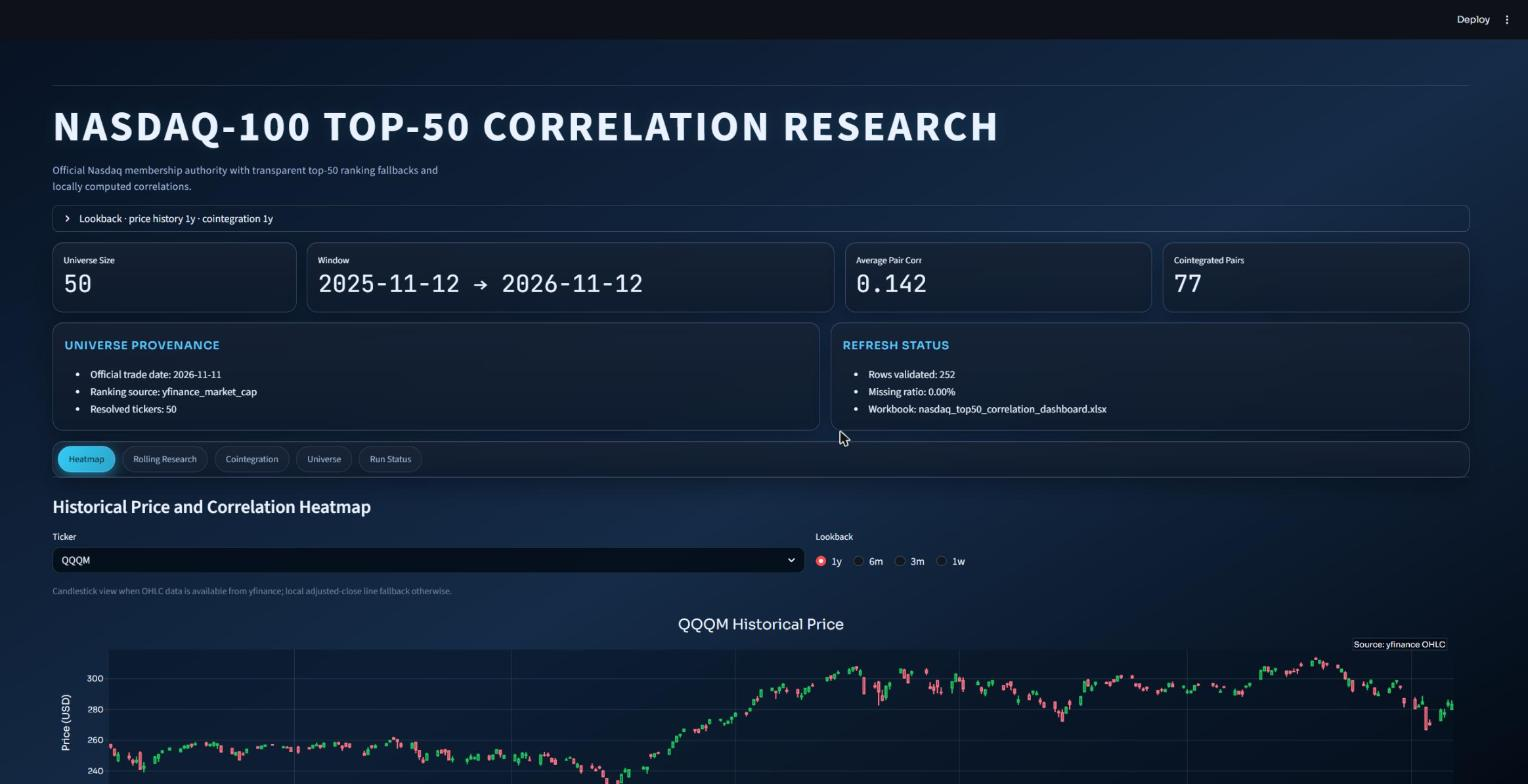
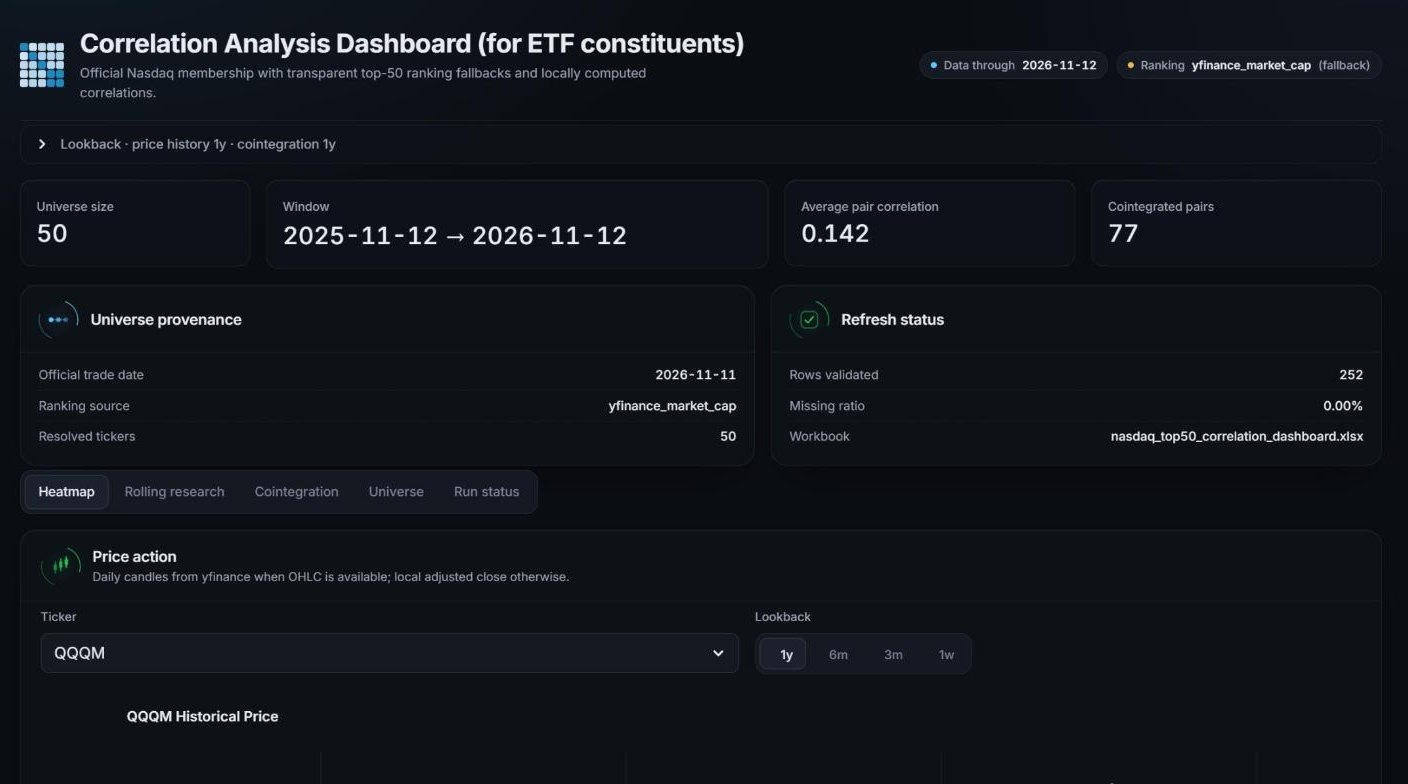
README: new title, interface notes and fresh screenshots

diff --git a/README.md b/README.md
@@ -1,9 +1,10 @@
-# NASDAQ-100 Correlation Dashboard
+# Correlation Analysis Dashboard (for ETF constituents)
 
-Research dashboard for the correlation structure of the **top 50 NASDAQ-100 stocks**, or of **any
-ETF's holdings**. It pulls daily prices, computes returns and the full correlation matrix locally,
-tests every pair for Engle-Granger cointegration, and shows it all in a Streamlit app plus two
-Excel workbooks. Every artifact records where its data came from.
+Research dashboard for the correlation structure of an **ETF's constituents**: out of the box the
+**top 50 NASDAQ-100 stocks** (the QQQ/QQQM basket), or the top holdings of **any ETF** from its
+issuer's holdings export. It pulls daily prices, computes returns and the full correlation matrix
+locally, tests every pair for Engle-Granger cointegration, and shows it all in a Streamlit app plus
+two Excel workbooks. Every artifact records where its data came from.
 
 ![Dashboard overview](docs/images/overview.jpg)
 
@@ -23,6 +24,10 @@ Excel workbooks. Every artifact records where its data came from.
   are tested but not qualified, because the test is not valid for them.
 - **ETF mode:** the same analysis on the top 50 holdings by fund weight of any ETF (e.g. `TAN`), from the issuer's holdings export. Funds with fewer holdings use them all; `--top-n` changes the count.
 - **Outputs:** CSV/JSON artifacts in `data/processed/` and Excel workbooks in `exports/`.
+- **Interface:** a dark, token-based theme (Inter and JetBrains Mono) with one panel per question,
+  hover tooltips and crosshairs on every chart, and small animated panel emblems. The correlation
+  matrix adapts to the screen: wider on large monitors, with cell labels sized to fit. Animations
+  switch off when the system asks for reduced motion.
 
 ![Correlation heatmap](docs/images/heatmap.jpg)
 ![Cointegration tab](docs/images/cointegration.jpg)
